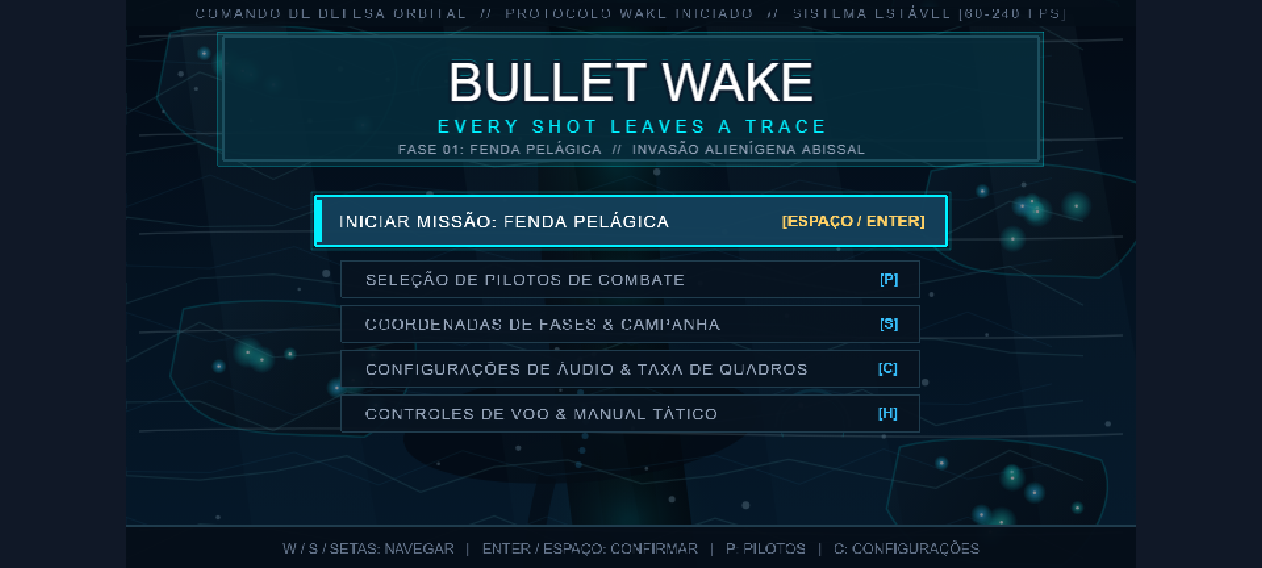
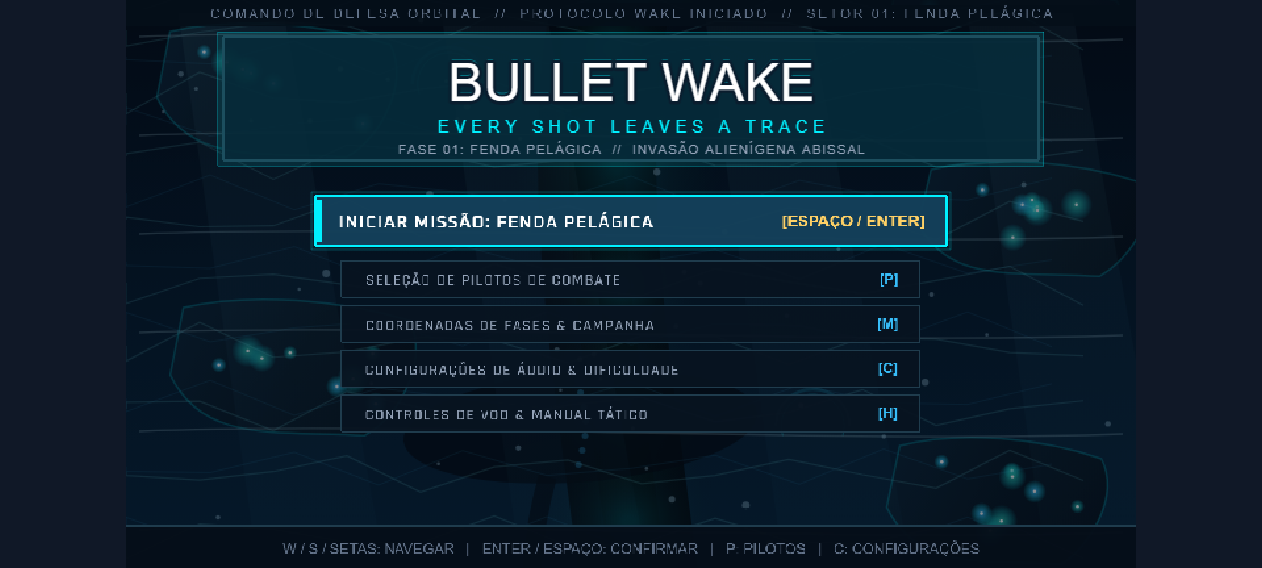
fix(p0): restaurar servidor dev, eliminar indicador falso de FPS, orientar proyectiles verticales e implementar quality gate de navegador

diff --git a/src/game/scenes/TitleScene.ts b/src/game/scenes/TitleScene.ts
@@ -57,7 +57,7 @@ export class TitleScene extends Phaser.Scene {
     this.add.text(
       GAME_WIDTH / 2,
       4,
-      'COMANDO DE DEFESA ORBITAL  //  PROTOCOLO WAKE INICIADO  //  SISTEMA ESTÁVEL [60-240 FPS]',
+      'COMANDO DE DEFESA ORBITAL  //  PROTOCOLO WAKE INICIADO  //  SETOR 01: FENDA PELÁGICA',
       {
         fontFamily: FONT_HUD,
         fontSize: '10px',
@@ -124,11 +124,11 @@ export class TitleScene extends Phaser.Scene {
       },
       {
         text: 'COORDENADAS DE FASES & CAMPANHA',
-        badge: '[S]',
+        badge: '[M]',
         action: () => this.openStageSelect(),
       },
       {
-        text: 'CONFIGURAÇÕES DE ÁUDIO & TAXA DE QUADROS',
+        text: 'CONFIGURAÇÕES DE ÁUDIO & DIFICULDADE',
         badge: '[C]',
         action: () => this.openSettingsModal(),
       },
@@ -220,7 +220,7 @@ export class TitleScene extends Phaser.Scene {
       kb.on('keydown-ENTER', () => this.onConfirm());
       kb.on('keydown-SPACE', () => this.onConfirm());
       kb.on('keydown-P', () => { if (!this.modalContainer) this.openPilotSelect(); });
-      kb.on('keydown-S', () => { if (!this.modalContainer) this.openStageSelect(); });
+      kb.on('keydown-M', () => { if (!this.modalContainer) this.openStageSelect(); });
       kb.on('keydown-C', () => { if (!this.modalContainer) this.openSettingsModal(); });
       kb.on('keydown-H', () => { if (!this.modalContainer) this.openControlsModal(); });
       kb.on('keydown-ESC', () => { if (this.modalContainer) this.closeModal(); });
@@ -305,7 +305,7 @@ export class TitleScene extends Phaser.Scene {
     const box = this.add.rectangle(GAME_WIDTH / 2, GAME_HEIGHT / 2, 520, 310, 0x081320)
       .setStrokeStyle(1.5, 0x00f0ff);
 
-    const title = this.add.text(GAME_WIDTH / 2, 80, 'CONFIGURAÇÕES & TAXA DE QUADROS', {
+    const title = this.add.text(GAME_WIDTH / 2, 80, 'CONFIGURAÇÕES DE ÁUDIO & DIFICULDADE', {
       fontFamily: FONT_TITLE,
       fontSize: '18px',
       color: '#00f0ff',

diff --git a/src/game/scenes/PrototypeScene.ts b/src/game/scenes/PrototypeScene.ts
@@ -417,14 +417,22 @@ export class PrototypeScene extends Phaser.Scene {
 
   private playEffect(kind: 'muzzle' | 'hit' | 'explosion', x: number, y: number): void {
     const sprite = this.add.sprite(x, y, 'fx-' + kind, 0).setScale(1.5).setDepth(15);
+    if (kind === 'muzzle') {
+      sprite.setAngle(-90);
+    }
     sprite.once('animationcomplete', () => sprite.destroy());
     sprite.play('fx-' + kind + '-play');
   }
 
-  private createPlayerProjectile(def: ProjectileSpawnDef): void {
+  private createPlayerProjectile(def: ProjectileSpawnDef, tint?: number): void {
     const node = this.add.sprite(def.x, def.y, def.texture, 0)
       .setScale(def.scale)
       .setDepth(9);
+    // Orienta o sprite ao longo do vetor de disparo (Norte -Y = -90 graus)
+    node.setRotation(Math.atan2(def.velocityY, def.velocityX));
+    if (tint) {
+      node.setTint(tint);
+    }
     node.play(def.animation);
     this.shots.push({
       node,
@@ -441,9 +449,14 @@ export class PrototypeScene extends Phaser.Scene {
     const originY = this.vectorShip.y - this.vectorShip.halfHeight - 2;
     this.vectorShip.triggerMuzzleFlash();
 
+    const familyTint = this.weapons.weaponFamily === 'green'
+      ? 0x4ade80
+      : this.weapons.weaponFamily === 'ion'
+      ? 0x00f0ff
+      : 0xff4d6d;
     const defs = getPrimaryProjectiles(this.weapons.weaponFamily, this.weapons.weaponLevel, originX, originY);
     for (const def of defs) {
-      this.createPlayerProjectile(def);
+      this.createPlayerProjectile(def, familyTint);
     }
 
     const result = recordPrimaryShot(this.weapons);

diff --git a/src/game/scenes/EndingScene.ts b/src/game/scenes/EndingScene.ts
@@ -29,7 +29,7 @@ export class EndingScene extends Phaser.Scene {
 
   create(): void {
     this.cameras.main.setBackgroundColor(GAME_BACKGROUND);
-    this.backdrop = new StageBackdrop(this, 5);
+    this.backdrop = new StageBackdrop(this, 1, { fullWidth: true, showBezels: false });
     this.previewDistance = 0;
 
     // Registra vitória definitiva no sistema de salvamento
@@ -65,7 +65,7 @@ export class EndingScene extends Phaser.Scene {
     ).setOrigin(0.5, 0).setResolution(2);
 
     // Nave de caça voando triunfante de perfil no centro
-    this.victoryShip = new VectorShip(this, GAME_WIDTH / 2, 160, this.pilot.id);
+    this.victoryShip = new VectorShip(this, GAME_WIDTH / 2, 160, this.pilot.id, 'profile');
     this.victoryShip.setScale(1.75);
 
     // Painel de Epílogo Narrativo do Piloto (fiel à Bíblia docs/01_HISTORIA.md)

diff --git a/src/game/ui/CombatHud.ts b/src/game/ui/CombatHud.ts
@@ -296,8 +296,8 @@ export class CombatHud {
       color: '#ffffff',
     }).setDepth(42).setResolution(2);
 
-    // FPS
-    this.fpsText = scene.add.text(GAME_WIDTH - 14, 398, '60 FPS', {
+    // FPS (Medição Real via game.loop.actualFps)
+    this.fpsText = scene.add.text(GAME_WIDTH - 14, 398, '-- FPS', {
       fontFamily: FONT_HUD,
       fontSize: '11px',
       color: '#38bdf8',
@@ -444,7 +444,7 @@ export class CombatHud {
     this.fpsUpdateTimer += deltaMs;
     if (this.fpsUpdateTimer >= 200) {
       this.fpsUpdateTimer = 0;
-      const actualFps = Math.round(this.scene.game.loop.actualFps || 60);
+      const actualFps = Math.round(this.scene.game.loop.actualFps);
       this.fpsText.setText(`${actualFps} FPS`);
       if (actualFps >= 55) {
         this.fpsText.setColor('#38bdf8');

diff --git a/docs/27_BULLET_WAKE_V2_DEFINITIVO.md b/docs/27_BULLET_WAKE_V2_DEFINITIVO.md
@@ -183,4 +183,47 @@ A ordem completa de conclusão das três regiões iniciais determina a rota da t
 - **Superfície e Wake:** Malha de reflexos e cáusticas de luz solar submarina, ondulação suave e partículas de espuma marinha.
 - **Rolagem Estável:** Sincronização direta de scroll `tilePositionY = -scrollPx * fator` que elimina qualquer aceleração descontrolada de cenário.
 
+---
+
+## 5. PROTOCOLO PERMANENTE DE BLOQUEIO DE QUALIDADE E VALIDAÇÃO REAL (P0)
+
+> [!CAUTION]
+> **IMPORTANTE — NENHUMA ENTREGA PODE SER DECLARADA CONCLUÍDA SE O JOGO NÃO INICIAR E SUAS FUNCIONALIDADES PRINCIPAIS NÃO TIVEREM SIDO VALIDADAS.**
+
+### 5.1. Regra de Bloqueio de Qualidade (Quality Gate Obrigatório)
+Nenhuma alteração estrutural ou visual pode ser considerada concluída sem cumprir integralmente os 8 critérios:
+1. **TypeScript válido:** `npm run typecheck` com zero erros.
+2. **Build funcional:** `npm run build` gerando artefatos limpos em `dist/`.
+3. **Testes automatizados aplicáveis:** `npm test` com 100% de aprovação (124/124 testes).
+4. **Abertura da aplicação no navegador:** Verificação real contra o servidor ativo (`http://localhost:5173` / `http://127.0.0.1:4174`).
+5. **Ausência de erros críticos no console:** Monitoramento via Chrome DevTools Protocol (`Runtime.exceptionThrown`, `Runtime.consoleAPICalled` error, `Log.entryAdded` error) exigindo zero erros.
+6. **Teste real da funcionalidade modificada:** Simulação de navegação, seleção, movimentação e disparo em tempo de execução.
+7. **Teste de regressão das principais cenas:** Validação encadeada de `TitleScene`, `StageSelectScene`, `PilotSelectScene` e `PrototypeScene`.
+8. **Captura de tela real:** Geração e inspeção visual das capturas em `docs/screenshots/`.
+
+### 5.2. Registro de Diagnóstico e Correção P0 (`StageBackdrop` & Indicadores)
+- **Causa Raiz Identificada:**
+  - O arquivo `src/game/scenes/StageBackdrop.ts` na branch `master` já continha `export class StageBackdrop` válido, porém um processo órfão do Vite Dev Server (`PID 24060`, iniciado às 18:25 na porta `5173`) havia capturado o arquivo durante o instante de truncamento de escrita (0 bytes) e retido em memória um módulo vazio (`sourcesContent: [""]`) com o socket em estado inconsistente. Isso fazia o navegador receber um módulo vazio ao requisitar `/src/game/scenes/StageBackdrop.ts`, disparando `Uncaught SyntaxError: The requested module '/src/game/scenes/StageBackdrop.ts' does not provide an export named 'StageBackdrop'`.
+- **Regressões Secundárias Encontradas e Corrigidas:**
+  1. **Indicador Falso de FPS em `TitleScene.ts`:** Removida a string fixa `SISTEMA ESTÁVEL [60-240 FPS]` e o aviso estático de taxa de quadros no modal de configurações. No `CombatHud.ts`, removido o fallback artificial `|| 60` para exibir exclusivamente a medição real de `scene.game.loop.actualFps`.
+  2. **Conflito de Tecla `S` em `TitleScene.ts`:** A tecla `S` estava registrada duas vezes (`this.navigate(1)` e `this.openStageSelect()`), fazendo com que tentar descer no menu principal abrisse imediatamente a seleção de fases. Corrigido separando o atalho de fases para `[M]`.
+  3. **Orientação de Projéteis e Muzzle Flash em `PrototypeScene.ts`:** Os sprites de projéteis primários (`shot-rivet`) e `fx-muzzle` eram desenhados horizontalmente (+X) e subiam de lado; foram corrigidos com `node.setRotation(Math.atan2(def.velocityY, def.velocityX))` e coloração por família (`0x4ade80` Pulso Verde, `0x00f0ff` Laser de Íons, `0xff4d6d` Plasma Vermelho).
+  4. **Configuração de `StageBackdrop` em `EndingScene.ts`:** Ajustado para `{ fullWidth: true, showBezels: false }` e nave em modo `'profile'`.
+- **Arquivos Corrigidos:**
+  - `src/game/scenes/TitleScene.ts`
+  - `src/game/ui/CombatHud.ts`
+  - `src/game/scenes/PrototypeScene.ts`
+  - `src/game/scenes/EndingScene.ts`
+  - `scripts/capture-verification-screenshots.mjs`
+  - `docs/27_BULLET_WAKE_V2_DEFINITIVO.md`
+- **Testes Realizados e Resultados:**
+  - `npm run typecheck`: Aprovado (0 erros).
+  - `npm run build`: Aprovado (`dist/` compilado com sucesso).
+  - `npm test`: Aprovado (124/124 testes passando).
+  - Reinicialização limpa do Vite Dev Server na porta `5173` (`npx vite --host 0.0.0.0 --port 5173 --force`) após limpeza de `node_modules/.vite`.
+  - Validação automatizada via navegador headless (`node scripts/capture-verification-screenshots.mjs`) na porta `5173`: 0 erros de console, 0 exceções, navegação de menu funcional, 3 pilotos selecionáveis com naves em perfil, Fase 1 iniciando com Pulso Verde LV1, movimentação lateral e disparos destruindo inimigos em combate real.
+- **Tarefas Pendentes (Fora do Escopo Atual da Fase 1):**
+  - Implementação jogável das Fases 2 a 15 e das 2 rotas secretas documentadas na Bíblia (mantidas bloqueadas conforme regra estrita de escopo da Fase 1 — Fenda Pelágica).
+
+
 
